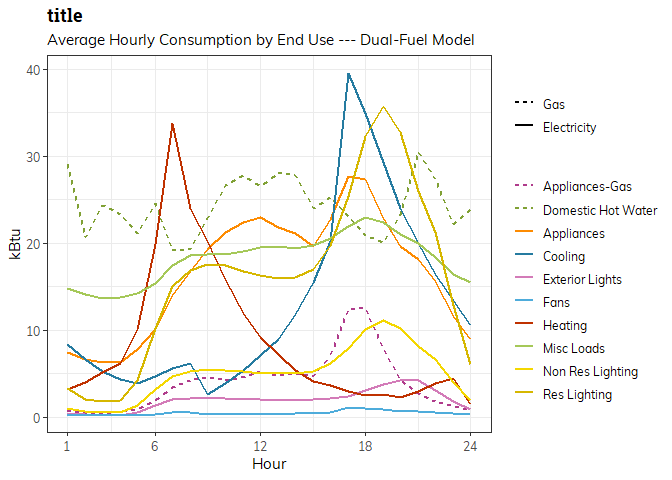
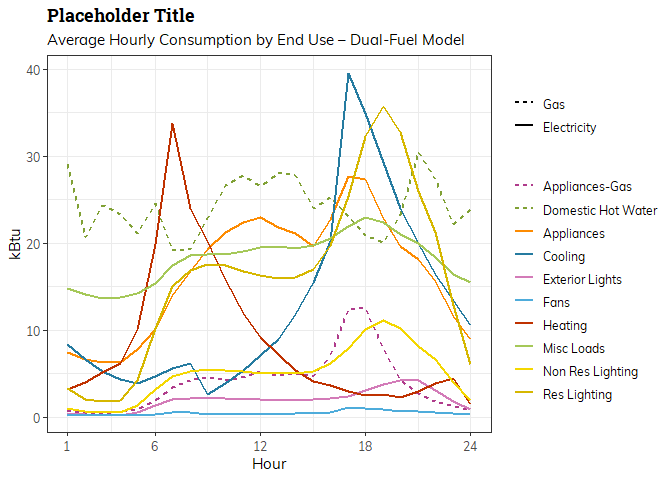
updating readme

Changed region(s): [[0.0625, 0.0, 0.2812, 0.0625], [0.5, 0.0625, 0.7188, 0.0938]]

diff --git a/README.md b/README.md
@@ -249,7 +249,7 @@ and passes `by_month` and `conversion_factor` to `clean_data()`, which
 it calls automatically.
 
 ``` r
-plot_dualfuel_avgs("data/sample_baseline_dual-fuel_design.csv", by_month = NULL)
+plot_dualfuel_avgs("data/sample_baseline_dual-fuel_design.csv", title = "Placeholder Title", by_month = NULL)
 ```
 
 <img src="man/figures/README-unnamed-chunk-10-1.png" width="100%" />
